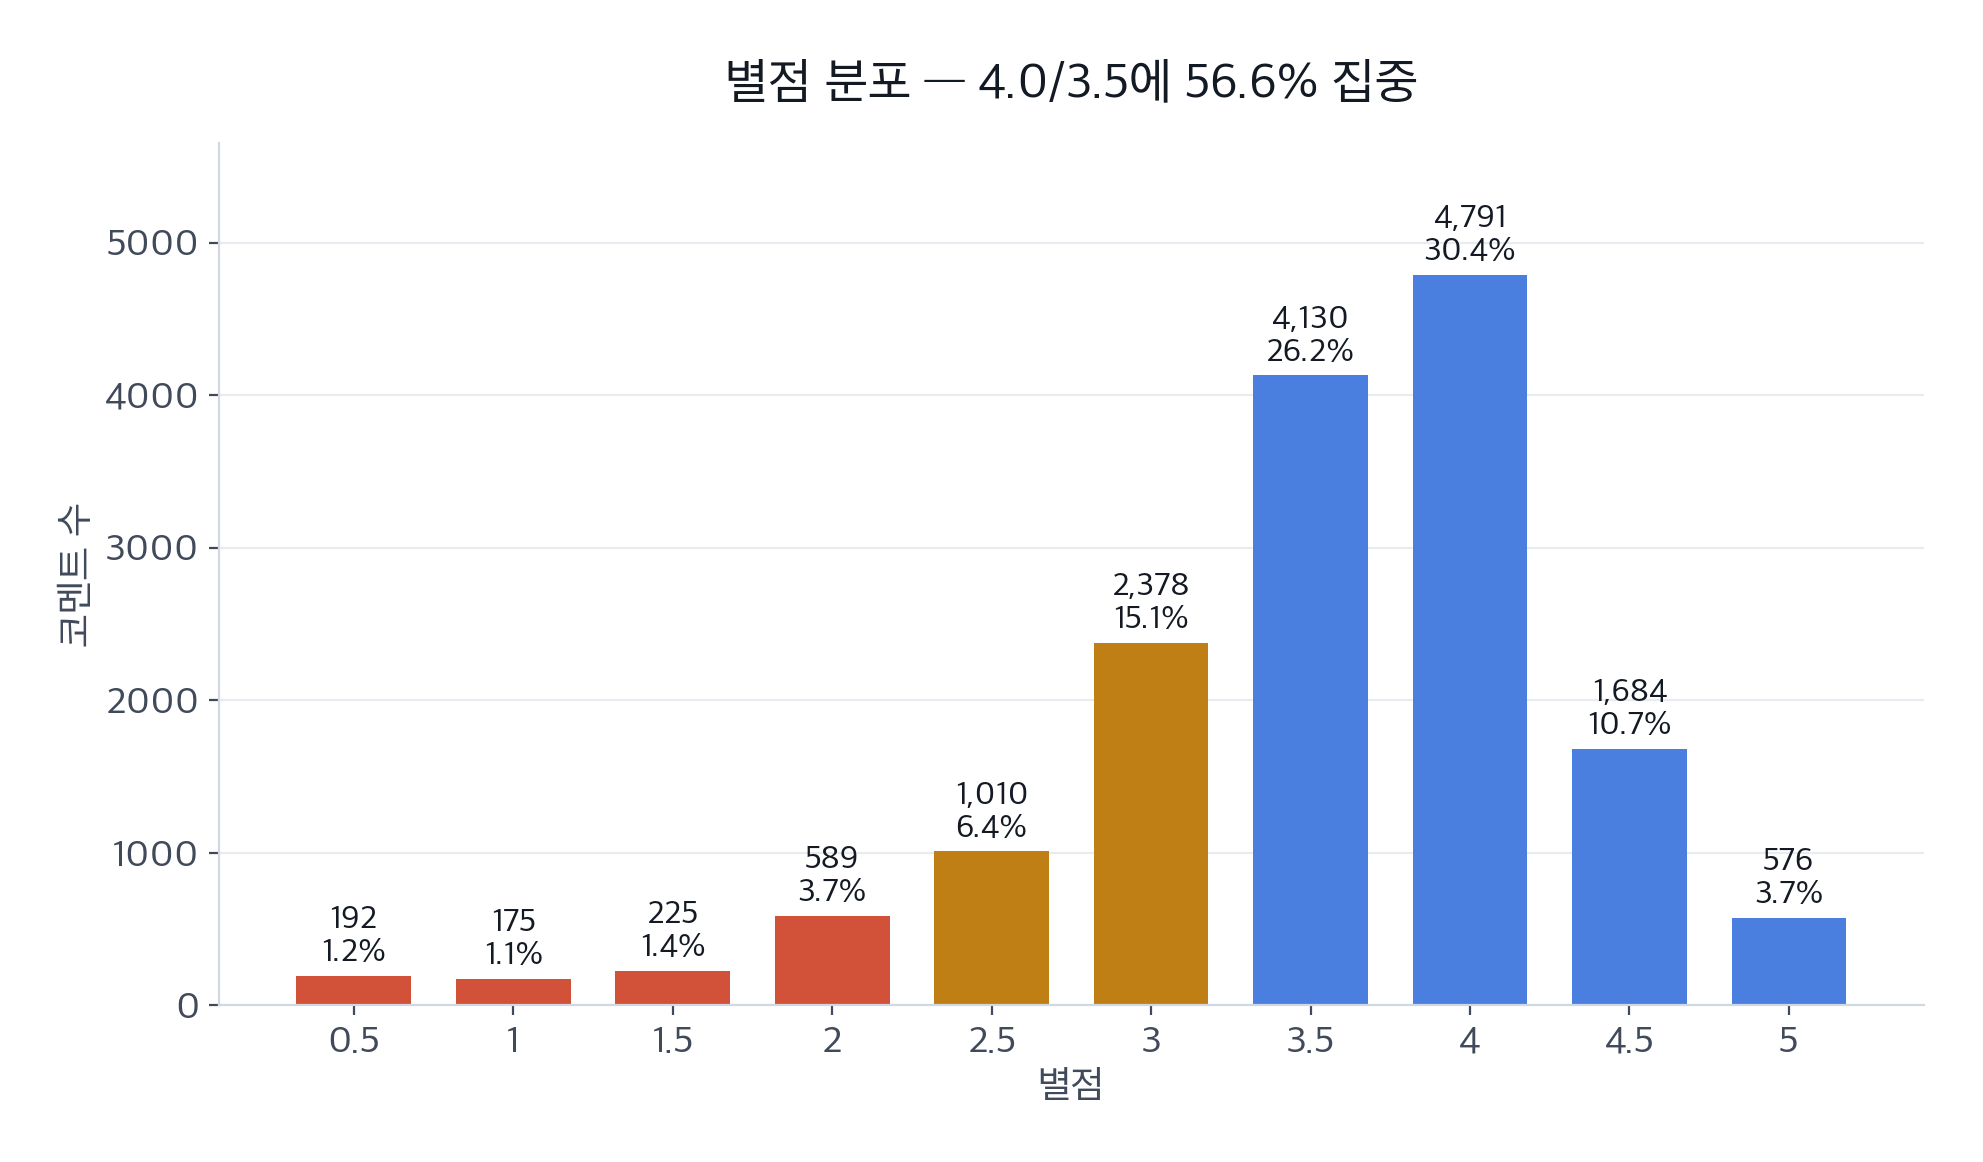
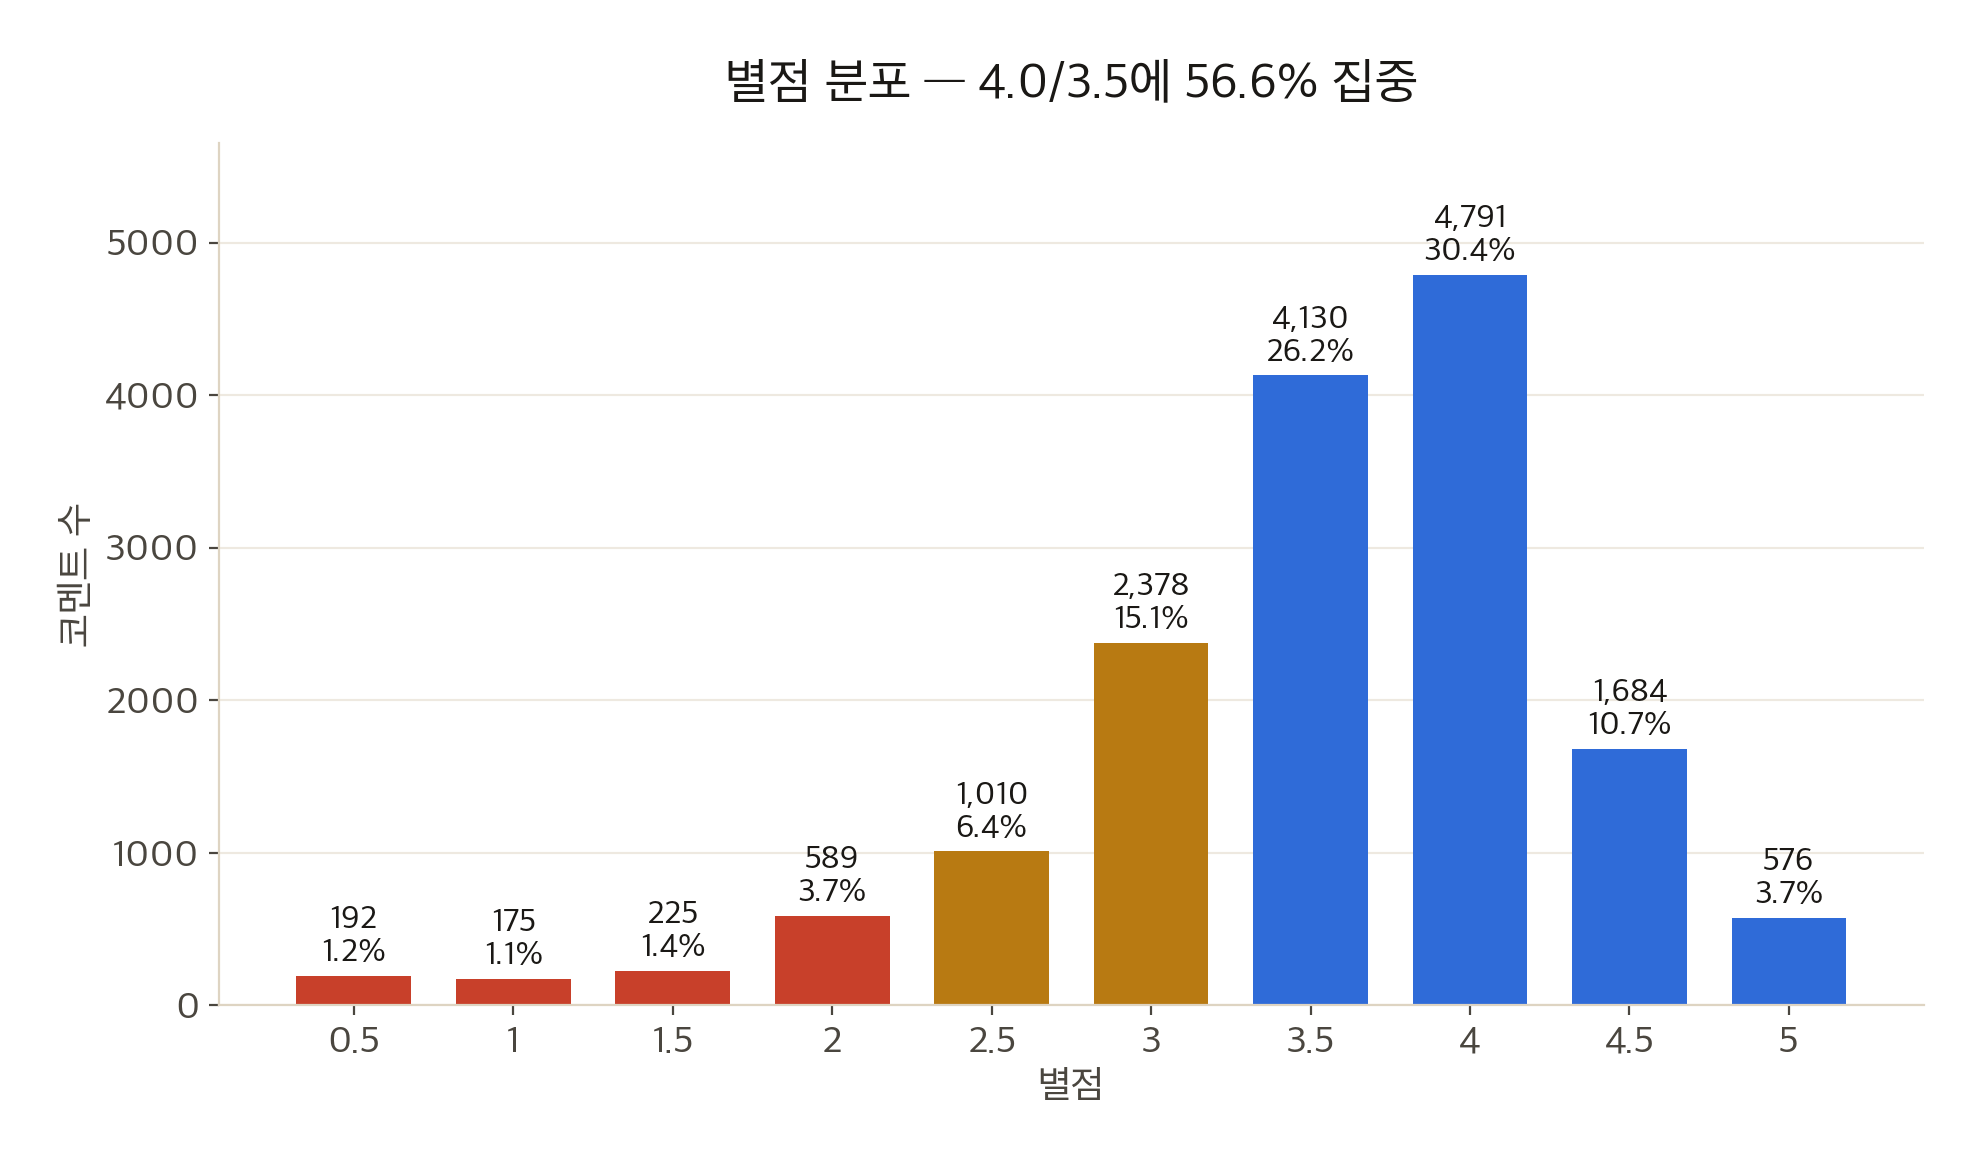
Use warm cream background for week-05 content slides
- Swap #f6f7f9 for #f7f2e8 to echo the cover's cream ink and gold accent
- Retune ink/muted/line/panel tokens, film strips and topbar to the warm tone
- Regenerate charts with the cream palette so donut gaps blend in

diff --git a/docs/week-05-no-other-choice-reviews/index.html b/docs/week-05-no-other-choice-reviews/index.html
@@ -52,28 +52,28 @@
 
   /* light chrome while a content slide is active */
   .film,.topbar,.bottombar{transition:background .45s ease,color .45s ease,border-color .45s ease}
-  body.light .topbar{color:#6f7887;border-bottom-color:rgba(20,26,36,.13);background:linear-gradient(#f6f7f9 70%,rgba(246,247,249,0))}
+  body.light .topbar{color:#7a7266;border-bottom-color:rgba(26,24,21,.14);background:linear-gradient(#f7f2e8 70%,rgba(247,242,232,0))}
   body.light .topbar .dot{background:#c8402a}
-  body.light .bottombar{color:#6f7887}
-  body.light .counter b{color:#141a24}
-  body.light .hint{color:#6f7887}
-  body.light .film{background:#e9edf3;border-color:rgba(20,26,36,.07)}
-  body.light .film::before{background-image:repeating-linear-gradient(to bottom,rgba(20,26,36,.20) 0 14px,transparent 14px 38px)}
+  body.light .bottombar{color:#7a7266}
+  body.light .counter b{color:#1a1815}
+  body.light .hint{color:#7a7266}
+  body.light .film{background:#efe8da;border-color:rgba(26,24,21,.07)}
+  body.light .film::before{background-image:repeating-linear-gradient(to bottom,rgba(26,24,21,.18) 0 14px,transparent 14px 38px)}
   body.light .progress{background:linear-gradient(90deg,#c08a2f,#c8402a)}
   body.light::before{opacity:.05;mix-blend-mode:multiply}
-  body.light::after{background:radial-gradient(130% 95% at 50% 40%,transparent 70%,rgba(15,23,42,.07) 100%)}
+  body.light::after{background:radial-gradient(130% 95% at 50% 40%,transparent 70%,rgba(60,45,20,.08) 100%)}
 
   .stage{position:absolute;inset:0}
   .slide{position:absolute;inset:0;display:flex;flex-direction:column;justify-content:center;
     padding:70px calc(var(--strip) + 4.5vw) 66px;opacity:0;visibility:hidden;overflow:hidden;transition:opacity .5s ease,visibility .5s}
   .slide.active{opacity:1;visibility:visible}
   /* light slides (2–16) — cover keeps the dark poster */
-  .slide:not(.poster-bg){background:#f6f7f9;color:var(--ink);
-    --ink:#141a24; --ink-soft:#3d4655; --muted:#6f7887; --line:rgba(20,26,36,.13);
-    --panel:#ffffff; --panel-2:#eef1f6;
+  .slide:not(.poster-bg){background:#f7f2e8;color:var(--ink);
+    --ink:#1a1815; --ink-soft:#4a463f; --muted:#7a7266; --line:rgba(26,24,21,.14);
+    --panel:#fffefa; --panel-2:#f8f1e3;
     --accent:#a8690c; --accent-solid:#e8b04b;
     --blue:#2f6bd8; --red:#c8402a;}
-  .slide:not(.poster-bg) .pcard{box-shadow:0 1px 2px rgba(16,24,40,.06)}
+  .slide:not(.poster-bg) .pcard{box-shadow:0 1px 2px rgba(74,58,30,.07)}
   .wrap{max-width:1360px;width:100%;margin:0 auto}
   [data-rise]{opacity:0;transform:translateY(24px)}
 

diff --git a/week-05-no-other-choice-reviews/make_charts.py b/week-05-no-other-choice-reviews/make_charts.py
@@ -22,16 +22,16 @@ ARGV = [a for a in sys.argv if a != "--light"]
 LIGHT = len(ARGV) != len(sys.argv)
 
 if LIGHT:
-    BG = "#f6f7f9"
-    INK = "#141a24"
-    INK_SOFT = "#414a5a"
-    MUTED = "#77808f"
-    LINE = "#d2d8e2"
-    GOLD = "#c07f14"
-    BLUE = "#4a7fe0"
-    RED = "#d15238"
-    ORANGE = "#d9814a"
-    BAR_GRAY = "#c7d0de"
+    BG = "#f7f2e8"
+    INK = "#1a1815"
+    INK_SOFT = "#4a463f"
+    MUTED = "#7a7266"
+    LINE = "#ded4c2"
+    GOLD = "#b87a12"
+    BLUE = "#2f6bd8"
+    RED = "#c8402a"
+    ORANGE = "#c9773a"
+    BAR_GRAY = "#d8cdb8"
 else:
     BG = "#0d1524"
     INK = "#f2eee4"
